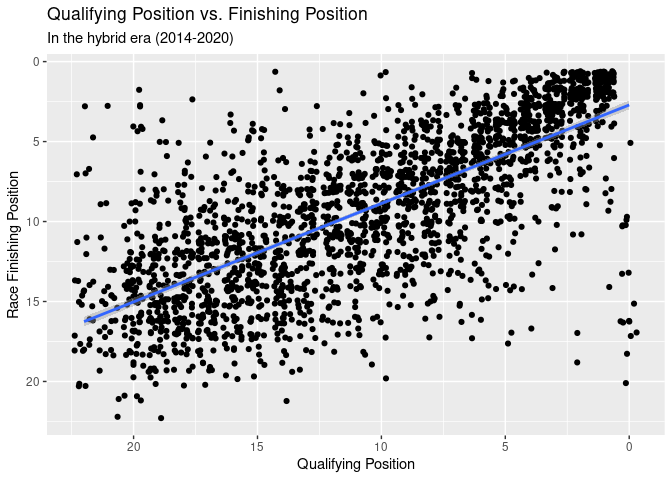
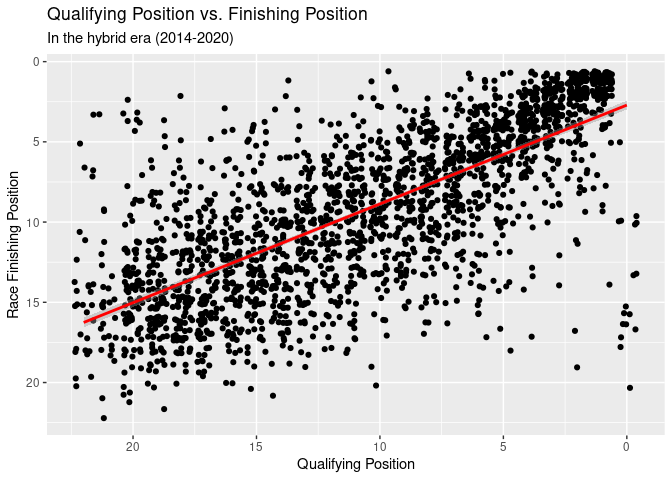
Adding to readme, created piechart showing amount of wins

diff --git a/README.md b/README.md
@@ -28,13 +28,16 @@ compared to the other key teams. But why is this?
 
 We thought it could possibly be due to Mercedes having more drivers
 leading to a misleading result. However, the merged dataset we are
-working with has the same amount of drivers for each key team.
+working with has the same amount of drivers for each key team - each
+constructor has 276 entries.
 
 Could this be due to Mercedes being faster than the other constructors?
 We investigated the average lap time of each key team and found that
-Mercedes has a slightly lower median lap time than the other teams.
-However, this isn’t a significant enough difference to explain their
-massive amount of wins.
+Mercedes has a slightly lower median lap time than the other teams by a
+few seconds. However, this isn’t a significant enough difference to
+explain their massive amount of wins - if it were, Ferrari and Red Bull
+would have a similar amount of wins to Mercedes due to having similar
+median lap times.
 
 Write-up of your project and findings go here. Think of this as the text
 of your presentation. The length should be roughly 5 minutes when read

diff --git a/proposal/proposal.md b/proposal/proposal.md
@@ -254,7 +254,7 @@ f1merged_hybrid %>%
   filter(!is.na(position)) %>%
   ggplot(aes(x = grid, y = position)) +
   geom_jitter() +
-  geom_smooth(method = lm) +
+  geom_smooth(method = lm, colour = "red") +
   labs(x = "Qualifying Position",
        y = "Race Finishing Position",
        title = "Qualifying Position vs. Finishing Position",
@@ -297,7 +297,7 @@ f1merged_hybrid %>%
   count(constructorname, sort = TRUE) %>%
   summarise(mean_ret_per_season = n/(n_distinct(f1merged_hybrid$year))) %>%
   ggplot(aes(x = mean_ret_per_season, 
-             y = constructorname, 
+             y = factor(constructorname, levels = rev(levels(factor(constructorname)))), 
              fill = constructorname)) +
   geom_col() + 
   scale_fill_manual(values = team_colours) +
